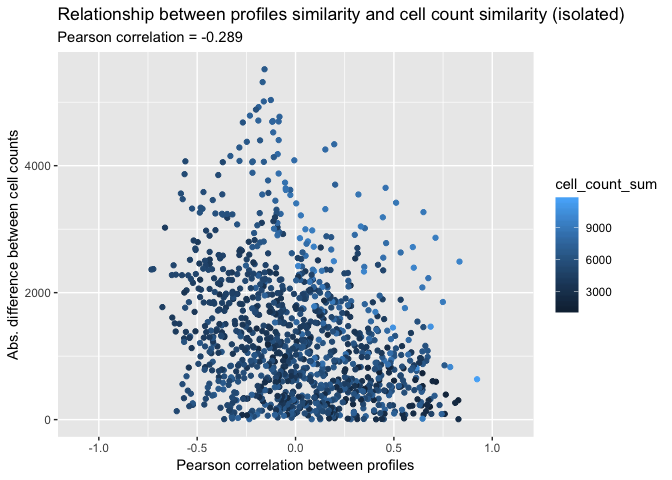
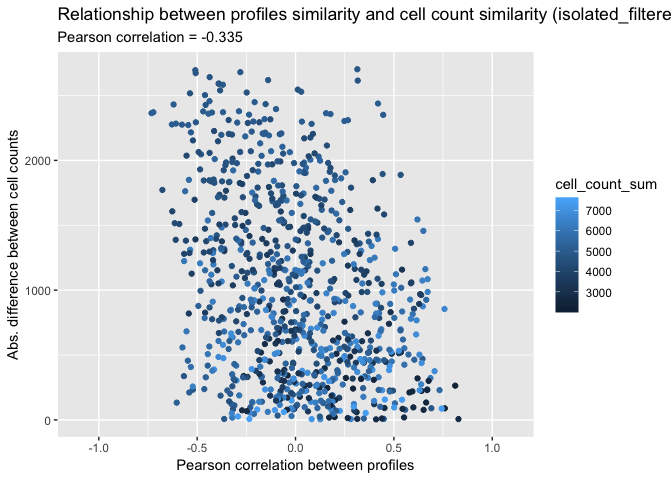
Reknit

diff --git a/1.profile-cell-lines/0.inspect-profiles.md b/1.profile-cell-lines/0.inspect-profiles.md
@@ -604,129 +604,29 @@ similarity_colony <- measure_profile_similarity(profiles_colony)
 similarity_isolated <- measure_profile_similarity(profiles_isolated)
 ```
 
-### Measure *absolute difference* of cell counts between profiles
-
 ``` r
-# get data matrix
-data_matrix <-
-  cell_count %>%
-  select(-matches("Metadata"))
-
-# get metadata
-metadata <-
-  cell_count %>%
-  select(matches("Metadata")) %>%
-  rowid_to_column(var = "id")
-
-# measure similarities between treatments
-count_similarity <- abs(outer(data_matrix$Count_Cells, data_matrix$Count_Cells, FUN = "-"))
-
-colnames(count_similarity) <- seq(1, ncol(count_similarity))
-
-count_similarity %<>% 
-  as_tibble() %>% 
-  rowid_to_column(var = "id1") %>% 
-  gather(id2, cell_count_abs_diff, -id1) %>% 
-  mutate(id2 = as.integer(id2)) %>%
-  filter(id1 > id2) %>% 
-  arrange(desc(cell_count_abs_diff))
-
-# annotate the similarities data frame
-count_similarity %<>%
-  inner_join(metadata %>% 
-               select(id, 
-                      Metadata_line_ID,
-                      Metadata_plating_density), 
-             by = c("id1" = "id")) %>% 
-  rename(Metadata_line_ID1 = Metadata_line_ID, 
-         Metadata_plating_density1 = Metadata_plating_density)  %>%
-  inner_join(metadata %>% 
-               select(id, 
-                      Metadata_line_ID,
-                      Metadata_plating_density), 
-             by = c("id2" = "id")) %>%
-  rename(Metadata_line_ID2 = Metadata_line_ID, 
-         Metadata_plating_density2 = Metadata_plating_density) %>% 
-  arrange(desc(cell_count_abs_diff))
-```
-
-### Measure *average* of cell counts of pairs of profiles
-
-``` r
-# get data matrix
-data_matrix <-
-  cell_count %>%
-  select(-matches("Metadata"))
-
-# get metadata
-metadata <-
-  cell_count %>%
-  select(matches("Metadata")) %>%
-  rowid_to_column(var = "id")
-
-# measure similarities between treatments
-count_sum <- abs(outer(data_matrix$Count_Cells, data_matrix$Count_Cells,FUN = "+"))
-
-colnames(count_sum) <- seq(1, ncol(count_sum))
-
-count_sum %<>% 
-  as_tibble() %>% 
-  rowid_to_column(var = "id1") %>% 
-  gather(id2, cell_count_sum, -id1) %>% 
-  mutate(id2 = as.integer(id2)) %>%
-  filter(id1 > id2) %>% 
-  arrange(desc(cell_count_sum))
-
-# annotate the similarities data frame
-count_sum %<>%
-  inner_join(metadata %>% 
-               select(id, 
-                      Metadata_line_ID,
-                      Metadata_plating_density), 
-             by = c("id1" = "id")) %>% 
-  rename(Metadata_line_ID1 = Metadata_line_ID, 
-         Metadata_plating_density1 = Metadata_plating_density)  %>%
-  inner_join(metadata %>% 
-               select(id, 
-                      Metadata_line_ID,
-                      Metadata_plating_density), 
-             by = c("id2" = "id")) %>%
-  rename(Metadata_line_ID2 = Metadata_line_ID, 
-         Metadata_plating_density2 = Metadata_plating_density) %>% 
-  arrange(desc(cell_count_sum))
-```
-
-### Combine profiles similarity and cell count similarity into a single data frame
-
-Note that the cell counts here are that of all cells from the well, not
-that of each profile type (i.e. we don’t computer cell counts for
-`isolated` and `colony`, we just use the cell counts for the whole well)
-We should revisit whether this is the right approach.
-
-``` r
-combine_similarities <- function(similarity_i) {
-  similarity_i %<>% 
-    inner_join(count_similarity,
-               by = c("id1", 
-                      "id2", 
-                      "Metadata_line_ID1", 
-                      "Metadata_plating_density1", 
-                      "Metadata_line_ID2", 
-                      "Metadata_plating_density2")) %>%
-  inner_join(count_sum,
-               by = c("id1", 
-                      "id2", 
-                      "Metadata_line_ID1", 
-                      "Metadata_plating_density1", 
-                      "Metadata_line_ID2", 
-                      "Metadata_plating_density2")) 
+attach_cell_count <- function(similarity_i) {
+  similarity_i %>% 
+    inner_join(cell_count,
+               by = c("Metadata_line_ID1" = "Metadata_line_ID", 
+                      "Metadata_plating_density1" = "Metadata_plating_density")
+               ) %>%
+    rename(Count_Cells1 = Count_Cells) %>%
+    inner_join(cell_count,
+               by = c("Metadata_line_ID2" = "Metadata_line_ID", 
+                      "Metadata_plating_density2" = "Metadata_plating_density")
+               ) %>%
+    rename(Count_Cells2 = Count_Cells) %>%
+    mutate(cell_count_abs_diff = abs(Count_Cells1 - Count_Cells2)) %>%
+    mutate(cell_count_sum = (Count_Cells1 + Count_Cells2))
+    
 } 
 
-similarity_all %<>% combine_similarities()
+similarity_all %<>% attach_cell_count()
 
-similarity_colony %<>% combine_similarities()
+similarity_colony %<>% attach_cell_count()
 
-similarity_isolated %<>% combine_similarities()
+similarity_isolated %<>% attach_cell_count()
 ```
 
 ### Report relationship between profiles similarity and cell count similarity
@@ -753,20 +653,54 @@ plot_and_save_similarities <- function(similarity, profile_type) {
   
   similarity %>% write_csv(file.path("data", glue("similarity_{profile_type}.csv")))
 }
+```
 
+Report for all cell
+lines
+
+``` r
 plot_and_save_similarities(similarity = similarity_all, profile_type = "all")
 ```
 
-![](0.inspect-profiles_files/figure-gfm/unnamed-chunk-24-1.png)<!-- -->
+![](0.inspect-profiles_files/figure-gfm/unnamed-chunk-23-1.png)<!-- -->
 
 ``` r
 plot_and_save_similarities(similarity = similarity_colony, profile_type = "colony")
 ```
 
-![](0.inspect-profiles_files/figure-gfm/unnamed-chunk-24-2.png)<!-- -->
+![](0.inspect-profiles_files/figure-gfm/unnamed-chunk-23-2.png)<!-- -->
 
 ``` r
 plot_and_save_similarities(similarity = similarity_isolated, profile_type = "isolated")
+```
+
+![](0.inspect-profiles_files/figure-gfm/unnamed-chunk-23-3.png)<!-- -->
+
+Report for cell lines after filtering out those that have too few or too
+many cells
+
+``` r
+filter_cell_lines <- function(similarity_i) {
+  
+  similarity_i %>%
+    filter(between(Count_Cells1, 1000, 4000)) %>%
+    filter(between(Count_Cells2, 1000, 4000))
+
+}
+
+plot_and_save_similarities(similarity = filter_cell_lines(similarity_all), profile_type = "all_filtered")
+```
+
+![](0.inspect-profiles_files/figure-gfm/unnamed-chunk-24-1.png)<!-- -->
+
+``` r
+plot_and_save_similarities(similarity = filter_cell_lines(similarity_colony), profile_type = "colony_filtered")
+```
+
+![](0.inspect-profiles_files/figure-gfm/unnamed-chunk-24-2.png)<!-- -->
+
+``` r
+plot_and_save_similarities(similarity = filter_cell_lines(similarity_isolated), profile_type = "isolated_filtered")
 ```
 
 ![](0.inspect-profiles_files/figure-gfm/unnamed-chunk-24-3.png)<!-- -->
